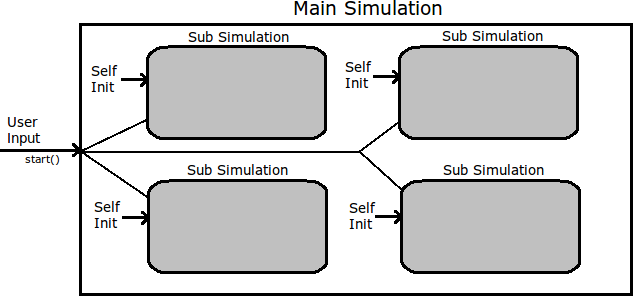
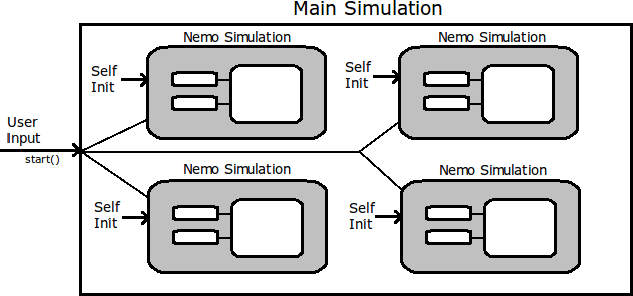
Report work

diff --git a/report/3_design.tex b/report/3_design.tex
@@ -25,7 +25,12 @@ After having all of the main goals set out, it is important to get the structure
 
 In order to provide a more detailed picture of the distributed system, here is the set of inner classes of the NeMo core simulation classes.
 
-PICTURE
+\begin{figure}[h]
+\begin{center}
+\includegraphics[scale = 0.4]{images/nemo_simulation_schematic.png}
+\end{center}
+\caption{Schematic representation of NeMo simulation}
+\end{figure}
 
 Creation of the distributed system that would run the simulator could be split into 3 distinct steps:
 
@@ -35,9 +40,9 @@ Creation of the distributed system that would run the simulator could be split i
 
 By accomplishment of this step, the system has to be able to run on several processes with little input from the user and no interaction between processes within simulation - in other words, several separate NeMo simulations with their own self-generated parameters, that could be started by user signal from the main process.
 
-\begin{figure}[h]
+\begin{figure}[h!]
 \begin{center}
-\includegraphics[scale = 0.25]{images/design_stage_1.png}
+\includegraphics[scale = 0.45]{images/design_stage_1.png}
 \end{center}
 \caption{Schematic model of step 1}
 \end{figure}
@@ -46,9 +51,9 @@ By accomplishment of this step, the system has to be able to run on several proc
 
 After thorough research conducted into the use of MPI protocol, create a simulation that would encode and pass all the initialisation parameters to the networks - mapping, configuration, neuron and synapse data - however, still without interaction between the sub-simulations.
 
-\begin{figure}[h]
+\begin{figure}[h!]
 \begin{center}
-\includegraphics[scale = 0.25]{images/design_stage_2.png}
+\includegraphics[scale = 0.45]{images/design_stage_2.png}
 \end{center}
 \caption{Schematic model of step 2}
 \end{figure}
@@ -58,9 +63,9 @@ After thorough research conducted into the use of MPI protocol, create a simulat
 Having the basic distribution system created, integrate the inter-node communication system that would allow subsystems to pass the internal spike data during simulations, while main class synchronizes the steps of all simulations by
 waiting for all of the communication to end, and advancing simulation one step further.
 
-\begin{figure}[h]
+\begin{figure}[h!]
 \begin{center}
-\includegraphics[scale = 0.25]{images/design_stage_3.png}
+\includegraphics[scale = 0.45]{images/design_stage_3.png}
 \end{center}
 \caption{Schematic model of step 2}
 \end{figure}
@@ -69,7 +74,9 @@ waiting for all of the communication to end, and advancing simulation one step f
 
 Accomplishing all of these steps yields a fully working distributed implementation of the target system. It is worth noting that though this design is quite schematic, the results of the actual implementation if broken into steps were closely related to those presented by this plan.
 
-\subsection{Separation from the Core System}
+\subsection{Separation from the Core NeMo System}
+
+This section covers the structure of design that allows the distributed version be built on top of NeMo simulator without altering it.
 
 \begin{figure}[h]
 \begin{center}
@@ -78,7 +85,9 @@ Accomplishing all of these steps yields a fully working distributed implementati
 \caption{NeMo simulation core}
 \end{figure}
 
-These classes is the core of the NeMo functionality, as it comprises all the data sets needed for the correct simulation. Therefore, in order to enable the distributed version to run separately, i.e. without interfering with the data innate to these classes, it is essential to design the system around those. In other words, the correct design must not alter internal structure of this set of classes.
+These classes are the core of the NeMo functionality, as they comprise all the data sets needed for the correct simulation. Therefore, in order to enable the distributed version to run separately, i.e. without interfering with the data innate to these classes, it is essential to design the system around those. In other words, the correct design must not alter internal structure of this set of classes.
+
+In order to make the project meet this target, the structure has been developed with a strict guidance of publicly accessible properties of NeMo simulation classes. Here is the result:
 
 \begin{figure}[h]
 \begin{center}
@@ -87,10 +96,15 @@ These classes is the core of the NeMo functionality, as it comprises all the dat
 \caption{Distributed simulation design}
 \end{figure}
 
-As it can be easily observed, the distributed version treats the core simulation classes as separate entities, only interacting with them through the NeMo-specified functionality and set of public methods, already present in them.
-Objectively, the MPI Layer wraps around the simulation classes and enables communication by passing input and output data between separate NeMo simulations.
+As it can be easily observed, the design of the distributed version treats the core simulation classes as separate entities, only interacting with them through the NeMo-specified functionality and set of public methods, already present in them. To summarise, the MPI Layer wraps around the simulation classes and enables communication by passing input and output data between separate NeMo simulations.
 
 \subsection{Mapping}
+
+In this section, the structure of the mapper class will be discussed. The actual mapping function will be expressed in detail later, in Implementation.
+
+Mapping as a procedure is taking place early during the simulation initialisation, therefore, it does not have strong time constraints. However, it is worth noting that it still has to abide the rule of non-interference within NeMo core functionality, as a result, collecting information only through the public methods, rather than dealing with the actual data sets.
+
+Mapper class design has three main requirements it has to satisfy: correct implementation of mapping function, relative to the modularity of the network and number of processes it should be split between, compressibility, as the mapper is to be distributed among the worker simulations for the later use during communication, and quick to access, as its features would be needed for the communication.
 
 \begin{figure}[h]
 \begin{center}
@@ -99,7 +113,12 @@ Objectively, the MPI Layer wraps around the simulation classes and enables commu
 \caption{Mapping scheme}
 \end{figure}
 
-\subsection{Alternative Solutions}
+The core functionality of the mapper requires to have a storage for neuron global-to-local and local-to-global mappings. This is accomplished by implementing two arrays that are populated during the simulation setup stage via interaction with the NeMo network class. Arrays were chosen as they are easy to access and relatively simple for compression, therefore meeting two goals at once.
+
+\section{Alternative Solutions}
+
+Throughout the stage of designing of the distributed version, there have been several possibilities of use of alternative solutions for the given task. Here, explanation of choice made at these points will be given.
+
 \begin{itemize}
 
 \item {Latency and Spike delivery}
@@ -108,7 +127,11 @@ Due to latency within the network of processors the system was tested on, there 
 
 \end{itemize}
 
-
 \section{Final Design}
 
+
 \section{Tools}
+
+The list of tools, used throughout this project could be separated into several subgroups by their purpose. Here, I will cover the use of each of those.
+
+\subsection{Version Control}
